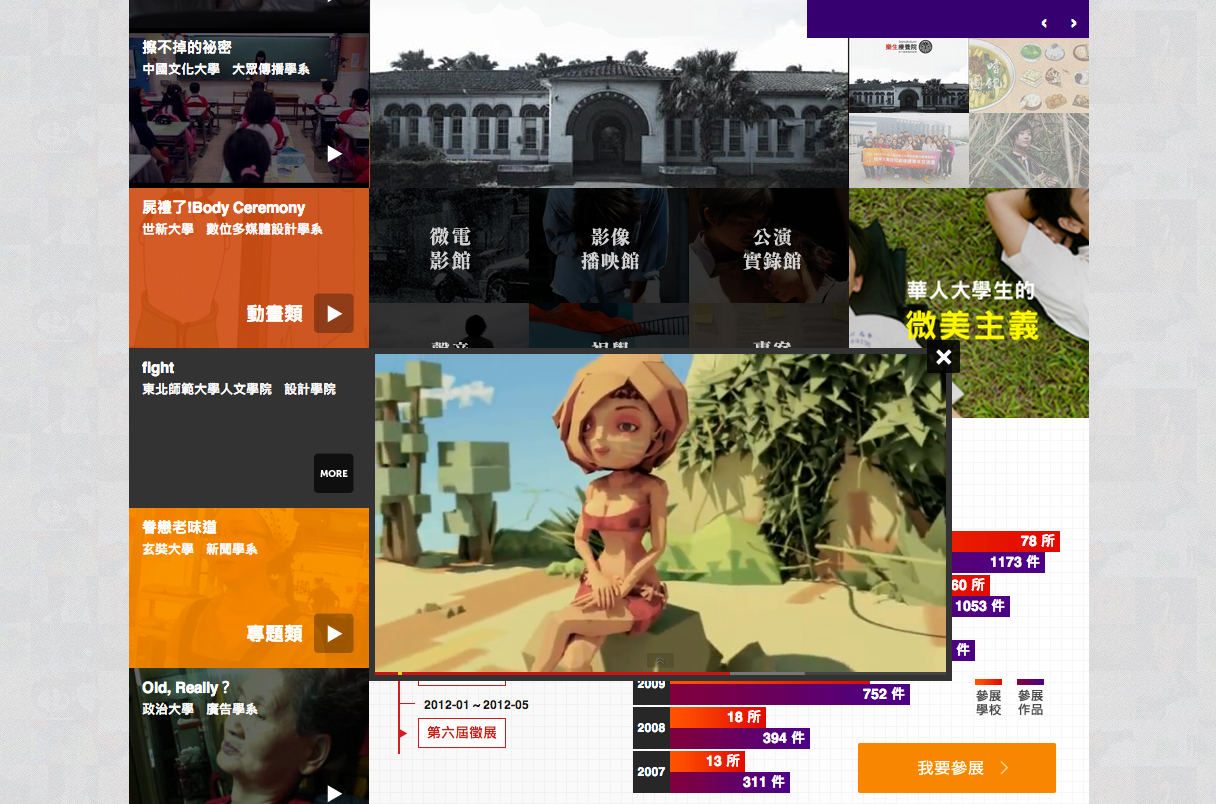
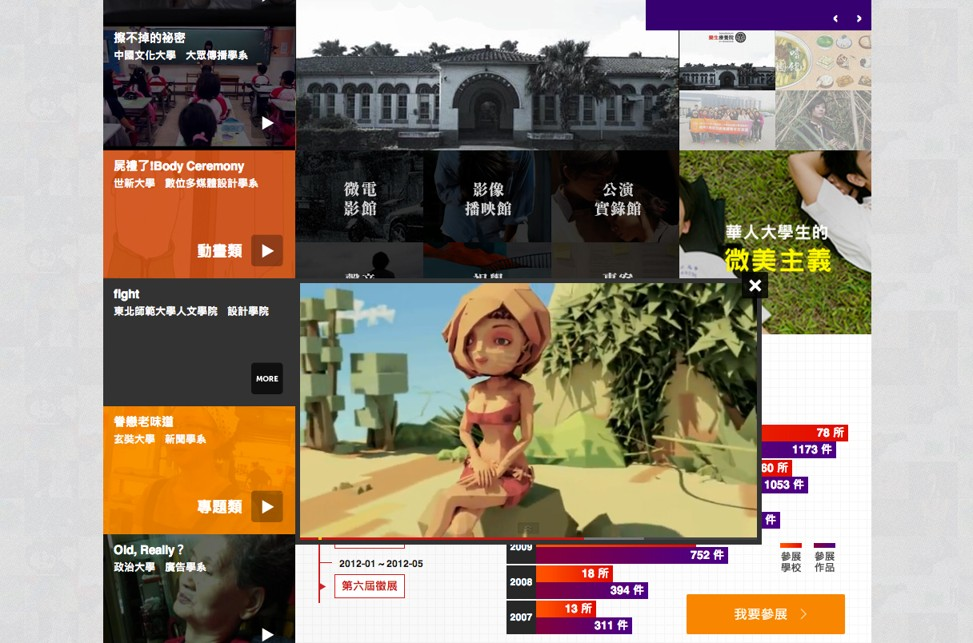
jquery anchor and lightbox plugin

diff --git a/js/lightbox-2.6.min.js b/js/lightbox-2.6.min.js
@@ -1,0 +1,1 @@
+(function(){var b,d,c;b=jQuery;c=(function(){function b(){this.fadeDuration=250;this.fitImagesInViewport=true;this.resizeDuration=250;this.showImageNumberLabel=true;this.wrapAround=false}b.prototype.albumLabel=function(b,c){return"Image "+b+" of "+c};return b})();d=(function(){function c(b){this.options=b;this.album=[];this.currentImageIndex=void 0;this.init()}c.prototype.init=function(){this.enable();return this.build()};c.prototype.enable=function(){var c=this;return b('body').on('click','a[rel^=lightbox], area[rel^=lightbox], a[data-lightbox], area[data-lightbox]',function(d){c.start(b(d.currentTarget));return false})};c.prototype.build=function(){var c=this;b("<div id='lightboxOverlay' class='lightboxOverlay'></div><div id='lightbox' class='lightbox'><div class='lb-outerContainer'><div class='lb-container'><img class='lb-image' src='' /><div class='lb-nav'><a class='lb-prev' href='' ></a><a class='lb-next' href='' ></a></div><div class='lb-loader'><a class='lb-cancel'></a></div></div></div><div class='lb-dataContainer'><div class='lb-data'><div class='lb-details'><span class='lb-caption'></span><span class='lb-number'></span></div><div class='lb-closeContainer'><a class='lb-close'></a></div></div></div></div>").appendTo(b('body'));this.$lightbox=b('#lightbox');this.$overlay=b('#lightboxOverlay');this.$outerContainer=this.$lightbox.find('.lb-outerContainer');this.$container=this.$lightbox.find('.lb-container');this.containerTopPadding=parseInt(this.$container.css('padding-top'),10);this.containerRightPadding=parseInt(this.$container.css('padding-right'),10);this.containerBottomPadding=parseInt(this.$container.css('padding-bottom'),10);this.containerLeftPadding=parseInt(this.$container.css('padding-left'),10);this.$overlay.hide().on('click',function(){c.end();return false});this.$lightbox.hide().on('click',function(d){if(b(d.target).attr('id')==='lightbox'){c.end()}return false});this.$outerContainer.on('click',function(d){if(b(d.target).attr('id')==='lightbox'){c.end()}return false});this.$lightbox.find('.lb-prev').on('click',function(){if(c.currentImageIndex===0){c.changeImage(c.album.length-1)}else{c.changeImage(c.currentImageIndex-1)}return false});this.$lightbox.find('.lb-next').on('click',function(){if(c.currentImageIndex===c.album.length-1){c.changeImage(0)}else{c.changeImage(c.currentImageIndex+1)}return false});return this.$lightbox.find('.lb-loader, .lb-close').on('click',function(){c.end();return false})};c.prototype.start=function(c){var f,e,j,d,g,n,o,k,l,m,p,h,i;b(window).on("resize",this.sizeOverlay);b('select, object, embed').css({visibility:"hidden"});this.$overlay.width(b(document).width()).height(b(document).height()).fadeIn(this.options.fadeDuration);this.album=[];g=0;j=c.attr('data-lightbox');if(j){h=b(c.prop("tagName")+'[data-lightbox="'+j+'"]');for(d=k=0,m=h.length;k<m;d=++k){e=h[d];this.album.push({link:b(e).attr('href'),title:b(e).attr('title')});if(b(e).attr('href')===c.attr('href')){g=d}}}else{if(c.attr('rel')==='lightbox'){this.album.push({link:c.attr('href'),title:c.attr('title')})}else{i=b(c.prop("tagName")+'[rel="'+c.attr('rel')+'"]');for(d=l=0,p=i.length;l<p;d=++l){e=i[d];this.album.push({link:b(e).attr('href'),title:b(e).attr('title')});if(b(e).attr('href')===c.attr('href')){g=d}}}}f=b(window);o=f.scrollTop()+f.height()/10;n=f.scrollLeft();this.$lightbox.css({top:o+'px',left:n+'px'}).fadeIn(this.options.fadeDuration);this.changeImage(g)};c.prototype.changeImage=function(f){var d,c,e=this;this.disableKeyboardNav();d=this.$lightbox.find('.lb-image');this.sizeOverlay();this.$overlay.fadeIn(this.options.fadeDuration);b('.lb-loader').fadeIn('100');this.$lightbox.find('.lb-image, .lb-nav, .lb-prev, .lb-next, .lb-dataContainer, .lb-numbers, .lb-caption').hide();this.$outerContainer.addClass('animating');c=new Image();c.onload=function(){var m,g,h,i,j,k,l;d.attr('src',e.album[f].link);m=b(c);d.width(c.width);d.height(c.height);if(e.options.fitImagesInViewport){l=b(window).width();k=b(window).height();j=l-e.containerLeftPadding-e.containerRightPadding-20;i=k-e.containerTopPadding-e.containerBottomPadding-110;if((c.width>j)||(c.height>i)){if((c.width/j)>(c.height/i)){h=j;g=parseInt(c.height/(c.width/h),10);d.width(h);d.height(g)}else{g=i;h=parseInt(c.width/(c.height/g),10);d.width(h);d.height(g)}}}return e.sizeContainer(d.width(),d.height())};c.src=this.album[f].link;this.currentImageIndex=f};c.prototype.sizeOverlay=function(){return b('#lightboxOverlay').width(b(document).width()).height(b(document).height())};c.prototype.sizeContainer=function(f,g){var b,d,e,h,c=this;h=this.$outerContainer.outerWidth();e=this.$outerContainer.outerHeight();d=f+this.containerLeftPadding+this.containerRightPadding;b=g+this.containerTopPadding+this.containerBottomPadding;this.$outerContainer.animate({width:d,height:b},this.options.resizeDuration,'swing');setTimeout(function(){c.$lightbox.find('.lb-dataContainer').width(d);c.$lightbox.find('.lb-prevLink').height(b);c.$lightbox.find('.lb-nextLink').height(b);c.showImage()},this.options.resizeDuration)};c.prototype.showImage=function(){this.$lightbox.find('.lb-loader').hide();this.$lightbox.find('.lb-image').fadeIn('100');this.updateNav();this.updateDetails();this.preloadNeighboringImages();this.enableKeyboardNav()};c.prototype.updateNav=function(){this.$lightbox.find('.lb-nav').show();if(this.album.length>1){if(this.options.wrapAround){this.$lightbox.find('.lb-prev, .lb-next').show()}else{if(this.currentImageIndex>0){this.$lightbox.find('.lb-prev').show()}if(this.currentImageIndex<this.album.length-1){this.$lightbox.find('.lb-next').show()}}}};c.prototype.updateDetails=function(){var b=this;if(typeof this.album[this.currentImageIndex].title!=='undefined'&&this.album[this.currentImageIndex].title!==""){this.$lightbox.find('.lb-caption').html(this.album[this.currentImageIndex].title).fadeIn('100')}if(this.album.length>1&&this.options.showImageNumberLabel){this.$lightbox.find('.lb-number').text(this.options.albumLabel(this.currentImageIndex+1,this.album.length)).fadeIn('100')}else{this.$lightbox.find('.lb-number').hide()}this.$outerContainer.removeClass('animating');this.$lightbox.find('.lb-dataContainer').fadeIn(this.resizeDuration,function(){return b.sizeOverlay()})};c.prototype.preloadNeighboringImages=function(){var c,b;if(this.album.length>this.currentImageIndex+1){c=new Image();c.src=this.album[this.currentImageIndex+1].link}if(this.currentImageIndex>0){b=new Image();b.src=this.album[this.currentImageIndex-1].link}};c.prototype.enableKeyboardNav=function(){b(document).on('keyup.keyboard',b.proxy(this.keyboardAction,this))};c.prototype.disableKeyboardNav=function(){b(document).off('.keyboard')};c.prototype.keyboardAction=function(g){var d,e,f,c,b;d=27;e=37;f=39;b=g.keyCode;c=String.fromCharCode(b).toLowerCase();if(b===d||c.match(/x|o|c/)){this.end()}else if(c==='p'||b===e){if(this.currentImageIndex!==0){this.changeImage(this.currentImageIndex-1)}}else if(c==='n'||b===f){if(this.currentImageIndex!==this.album.length-1){this.changeImage(this.currentImageIndex+1)}}};c.prototype.end=function(){this.disableKeyboardNav();b(window).off("resize",this.sizeOverlay);this.$lightbox.fadeOut(this.options.fadeDuration);this.$overlay.fadeOut(this.options.fadeDuration);return b('select, object, embed').css({visibility:"visible"})};return c})();b(function(){var e,b;b=new c();return e=new d(b)})}).call(this);

diff --git a/js/modernizr.custom.js b/js/modernizr.custom.js
@@ -1,0 +1,4 @@
+/* Modernizr 2.6.2 (Custom Build) | MIT & BSD
+ * Build: http://modernizr.com/download/#-shiv-cssclasses-teststyles-testprop-testallprops-hasevent-prefixes-domprefixes
+ */
+;window.Modernizr=function(a,b,c){function A(a){j.cssText=a}function B(a,b){return A(m.join(a+";")+(b||""))}function C(a,b){return typeof a===b}function D(a,b){return!!~(""+a).indexOf(b)}function E(a,b){for(var d in a){var e=a[d];if(!D(e,"-")&&j[e]!==c)return b=="pfx"?e:!0}return!1}function F(a,b,d){for(var e in a){var f=b[a[e]];if(f!==c)return d===!1?a[e]:C(f,"function")?f.bind(d||b):f}return!1}function G(a,b,c){var d=a.charAt(0).toUpperCase()+a.slice(1),e=(a+" "+o.join(d+" ")+d).split(" ");return C(b,"string")||C(b,"undefined")?E(e,b):(e=(a+" "+p.join(d+" ")+d).split(" "),F(e,b,c))}var d="2.6.2",e={},f=!0,g=b.documentElement,h="modernizr",i=b.createElement(h),j=i.style,k,l={}.toString,m=" -webkit- -moz- -o- -ms- ".split(" "),n="Webkit Moz O ms",o=n.split(" "),p=n.toLowerCase().split(" "),q={},r={},s={},t=[],u=t.slice,v,w=function(a,c,d,e){var f,i,j,k,l=b.createElement("div"),m=b.body,n=m||b.createElement("body");if(parseInt(d,10))while(d--)j=b.createElement("div"),j.id=e?e[d]:h+(d+1),l.appendChild(j);return f=["&#173;",'<style id="s',h,'">',a,"</style>"].join(""),l.id=h,(m?l:n).innerHTML+=f,n.appendChild(l),m||(n.style.background="",n.style.overflow="hidden",k=g.style.overflow,g.style.overflow="hidden",g.appendChild(n)),i=c(l,a),m?l.parentNode.removeChild(l):(n.parentNode.removeChild(n),g.style.overflow=k),!!i},x=function(){function d(d,e){e=e||b.createElement(a[d]||"div"),d="on"+d;var f=d in e;return f||(e.setAttribute||(e=b.createElement("div")),e.setAttribute&&e.removeAttribute&&(e.setAttribute(d,""),f=C(e[d],"function"),C(e[d],"undefined")||(e[d]=c),e.removeAttribute(d))),e=null,f}var a={select:"input",change:"input",submit:"form",reset:"form",error:"img",load:"img",abort:"img"};return d}(),y={}.hasOwnProperty,z;!C(y,"undefined")&&!C(y.call,"undefined")?z=function(a,b){return y.call(a,b)}:z=function(a,b){return b in a&&C(a.constructor.prototype[b],"undefined")},Function.prototype.bind||(Function.prototype.bind=function(b){var c=this;if(typeof c!="function")throw new TypeError;var d=u.call(arguments,1),e=function(){if(this instanceof e){var a=function(){};a.prototype=c.prototype;var f=new a,g=c.apply(f,d.concat(u.call(arguments)));return Object(g)===g?g:f}return c.apply(b,d.concat(u.call(arguments)))};return e});for(var H in q)z(q,H)&&(v=H.toLowerCase(),e[v]=q[H](),t.push((e[v]?"":"no-")+v));return e.addTest=function(a,b){if(typeof a=="object")for(var d in a)z(a,d)&&e.addTest(d,a[d]);else{a=a.toLowerCase();if(e[a]!==c)return e;b=typeof b=="function"?b():b,typeof f!="undefined"&&f&&(g.className+=" "+(b?"":"no-")+a),e[a]=b}return e},A(""),i=k=null,function(a,b){function k(a,b){var c=a.createElement("p"),d=a.getElementsByTagName("head")[0]||a.documentElement;return c.innerHTML="x<style>"+b+"</style>",d.insertBefore(c.lastChild,d.firstChild)}function l(){var a=r.elements;return typeof a=="string"?a.split(" "):a}function m(a){var b=i[a[g]];return b||(b={},h++,a[g]=h,i[h]=b),b}function n(a,c,f){c||(c=b);if(j)return c.createElement(a);f||(f=m(c));var g;return f.cache[a]?g=f.cache[a].cloneNode():e.test(a)?g=(f.cache[a]=f.createElem(a)).cloneNode():g=f.createElem(a),g.canHaveChildren&&!d.test(a)?f.frag.appendChild(g):g}function o(a,c){a||(a=b);if(j)return a.createDocumentFragment();c=c||m(a);var d=c.frag.cloneNode(),e=0,f=l(),g=f.length;for(;e<g;e++)d.createElement(f[e]);return d}function p(a,b){b.cache||(b.cache={},b.createElem=a.createElement,b.createFrag=a.createDocumentFragment,b.frag=b.createFrag()),a.createElement=function(c){return r.shivMethods?n(c,a,b):b.createElem(c)},a.createDocumentFragment=Function("h,f","return function(){var n=f.cloneNode(),c=n.createElement;h.shivMethods&&("+l().join().replace(/\w+/g,function(a){return b.createElem(a),b.frag.createElement(a),'c("'+a+'")'})+");return n}")(r,b.frag)}function q(a){a||(a=b);var c=m(a);return r.shivCSS&&!f&&!c.hasCSS&&(c.hasCSS=!!k(a,"article,aside,figcaption,figure,footer,header,hgroup,nav,section{display:block}mark{background:#FF0;color:#000}")),j||p(a,c),a}var c=a.html5||{},d=/^<|^(?:button|map|select|textarea|object|iframe|option|optgroup)$/i,e=/^(?:a|b|code|div|fieldset|h1|h2|h3|h4|h5|h6|i|label|li|ol|p|q|span|strong|style|table|tbody|td|th|tr|ul)$/i,f,g="_html5shiv",h=0,i={},j;(function(){try{var a=b.createElement("a");a.innerHTML="<xyz></xyz>",f="hidden"in a,j=a.childNodes.length==1||function(){b.createElement("a");var a=b.createDocumentFragment();return typeof a.cloneNode=="undefined"||typeof a.createDocumentFragment=="undefined"||typeof a.createElement=="undefined"}()}catch(c){f=!0,j=!0}})();var r={elements:c.elements||"abbr article aside audio bdi canvas data datalist details figcaption figure footer header hgroup mark meter nav output progress section summary time video",shivCSS:c.shivCSS!==!1,supportsUnknownElements:j,shivMethods:c.shivMethods!==!1,type:"default",shivDocument:q,createElement:n,createDocumentFragment:o};a.html5=r,q(b)}(this,b),e._version=d,e._prefixes=m,e._domPrefixes=p,e._cssomPrefixes=o,e.hasEvent=x,e.testProp=function(a){return E([a])},e.testAllProps=G,e.testStyles=w,g.className=g.className.replace(/(^|\s)no-js(\s|$)/,"$1$2")+(f?" js "+t.join(" "):""),e}(this,this.document);

diff --git a/css/lightbox.css b/css/lightbox.css
@@ -1,0 +1,202 @@
+/* line 7, ../sass/lightbox.sass */
+body:after {
+  content: url(../images/content/close.png) url(../images/content/loading.gif) url(../images/content/prev.png) url(../images/content/next.png);
+  display: none;
+}
+
+/* line 11, ../sass/lightbox.sass */
+.lightboxOverlay {
+  position: absolute;
+  top: 0;
+  left: 0;
+  z-index: 9999;
+  background-color: #222;
+  filter: progid:DXImageTransform.Microsoft.Alpha(Opacity=80);
+  opacity: 0.8;
+  display: none;
+}
+
+/* line 20, ../sass/lightbox.sass */
+.lightbox {
+  position: absolute;
+  left: 0;
+  width: 100%;
+  z-index: 10000;
+  text-align: center;
+  line-height: 0;
+  font-weight: normal;
+}
+/* line 28, ../sass/lightbox.sass */
+.lightbox .lb-image {
+  display: block;
+  height: auto;
+  -webkit-border-radius: 3px;
+  -moz-border-radius: 3px;
+  -ms-border-radius: 3px;
+  -o-border-radius: 3px;
+  border-radius: 3px;
+}
+/* line 32, ../sass/lightbox.sass */
+.lightbox a img {
+  border: none;
+}
+
+/* line 35, ../sass/lightbox.sass */
+.lb-outerContainer {
+  position: relative;
+  background-color: white;
+  *zoom: 1;
+  width: 250px;
+  height: 250px;
+  margin: 0 auto;
+  -webkit-border-radius: 4px;
+  -moz-border-radius: 4px;
+  -ms-border-radius: 4px;
+  -o-border-radius: 4px;
+  border-radius: 4px;
+}
+/* line 38, ../../../../.rvm/gems/ruby-1.9.3-p392/gems/compass-0.12.2/frameworks/compass/stylesheets/compass/utilities/general/_clearfix.scss */
+.lb-outerContainer:after {
+  content: "";
+  display: table;
+  clear: both;
+}
+
+/* line 44, ../sass/lightbox.sass */
+.lb-container {
+  padding: 0;
+}
+
+/* line 47, ../sass/lightbox.sass */
+.lb-loader {
+  position: absolute;
+  top: 43%;
+  left: 0%;
+  height: 25%;
+  width: 100%;
+  text-align: center;
+  line-height: 0;
+}
+
+/* line 56, ../sass/lightbox.sass */
+.lb-cancel {
+  display: block;
+  width: 32px;
+  height: 32px;
+  margin: 0 auto;
+  background: url(../images/content/loading.gif) no-repeat;
+}
+
+/* line 63, ../sass/lightbox.sass */
+.lb-nav {
+  position: absolute;
+  top: 0;
+  left: 0;
+  height: 100%;
+  width: 100%;
+  z-index: 10;
+}
+
+/* line 71, ../sass/lightbox.sass */
+.lb-container > .nav {
+  left: 0;
+}
+
+/* line 74, ../sass/lightbox.sass */
+.lb-nav a {
+  outline: none;
+}
+
+/* line 77, ../sass/lightbox.sass */
+.lb-prev, .lb-next {
+  width: 49%;
+  height: 100%;
+  cursor: pointer;
+  /* Trick IE into showing hover */
+  display: block;
+}
+
+/* line 84, ../sass/lightbox.sass */
+.lb-prev {
+  left: 0;
+  float: left;
+}
+/* line 87, ../sass/lightbox.sass */
+.lb-prev:hover {
+  background: url(../images/content/prev.png) left 48% no-repeat;
+}
+
+/* line 90, ../sass/lightbox.sass */
+.lb-next {
+  right: 0;
+  float: right;
+}
+/* line 93, ../sass/lightbox.sass */
+.lb-next:hover {
+  background: url(../images/content/next.png) right 48% no-repeat;
+}
+
+/* line 96, ../sass/lightbox.sass */
+.lb-dataContainer {
+  margin: 0 auto;
+  padding-top: 5px;
+  *zoom: 1;
+  width: 100%;
+  -moz-border-radius-bottomleft: 4px;
+  -webkit-border-bottom-left-radius: 4px;
+  border-bottom-left-radius: 4px;
+  -moz-border-radius-bottomright: 4px;
+  -webkit-border-bottom-right-radius: 4px;
+  border-bottom-right-radius: 4px;
+}
+/* line 38, ../../../../.rvm/gems/ruby-1.9.3-p392/gems/compass-0.12.2/frameworks/compass/stylesheets/compass/utilities/general/_clearfix.scss */
+.lb-dataContainer:after {
+  content: "";
+  display: table;
+  clear: both;
+}
+
+/* line 103, ../sass/lightbox.sass */
+.lb-data {
+  padding: 0 4px;
+  color: #fff;
+}
+/* line 106, ../sass/lightbox.sass */
+.lb-data .lb-details {
+  width: 85%;
+  float: left;
+  text-align: left;
+  line-height: 1.1em;
+}
+/* line 111, ../sass/lightbox.sass */
+.lb-data .lb-caption {
+  font-size: 13px;
+  font-weight: bold;
+  line-height: 1.3em;
+}
+/* line 115, ../sass/lightbox.sass */
+.lb-data .lb-number {
+  display: block;
+  clear: left;
+  padding-bottom: 1em;
+  font-size: 12px;
+  color: #ddd;
+}
+/* line 121, ../sass/lightbox.sass */
+.lb-data .lb-close {
+  display: block;
+  float: right;
+  width: 30px;
+  height: 30px;
+  background: url(../images/content/close.png) top right no-repeat;
+  text-align: right;
+  outline: none;
+  filter: progid:DXImageTransform.Microsoft.Alpha(Opacity=70);
+  opacity: 0.7;
+}
+/* line 130, ../sass/lightbox.sass */
+.lb-data .lb-close:hover {
+  cursor: pointer;
+  filter: progid:DXImageTransform.Microsoft.Alpha(Opacity=100);
+  opacity: 1;
+}

diff --git a/index.html b/index.html
@@ -28,6 +28,7 @@
 	<link rel="stylesheet" href="css/base.css">
 	<link rel="stylesheet" href="css/index.css">
 	<link href='http://fonts.googleapis.com/css?family=Roboto:400,100,300,500,100italic,300italic,400italic,500italic' rel='stylesheet' type='text/css'>
+	<link rel="stylesheet" href="css/lightbox.css">
 	
 </head>
 
@@ -48,8 +49,8 @@
 			<!--start btn-->
 			<div class="main_btn absolute">
 				<div class="clearfix inner">
-					<a class="btn fltlft" href="#" style="margin-right:35px;">About</a>
-					<a class="btn fltlft" href="#">Portfolio</a>
+					<a class="btn fltlft" href="#about" style="margin-right:35px;">About</a>
+					<a class="btn fltlft" href="#portfolio">Portfolio</a>
 				</div>
 			</div>
 			<!--end btn-->
@@ -110,8 +111,10 @@
 				<!--start a_portfolio-->
 				<div class="fltlft item">
 					<div class="inner bw relative">
-						<a class="hover absolute" href="#"><div class="color"></div><div class="magnifier absolute"></div></a>
+						<a class="hover absolute" href="images/content/portfolio/dge/1.jpg" data-lightbox="dge-set" title="設計、網頁製作"><div class="color"></div><div class="magnifier absolute"></div></a>
 						<img src="images/content/portfolio/dge/1.jpg" alt="dge" />
+						<a href="images/content/portfolio/dge/2.jpg" class="absolute" style="display:none;" data-lightbox="dge-set" title="設計、網頁製作"></a>
+						<a href="images/content/portfolio/dge/3.jpg" class="absolute" style="display:none;" data-lightbox="dge-set" title="設計、網頁製作"></a>
 					</div>
 					<h2 class="name">DGE 華人大學院校數位聯合畢業展</h2>
 				</div>
@@ -120,8 +123,11 @@
 				<!--start a_portfolio-->
 				<div class="fltlft item">
 					<div class="inner bw relative">
-						<a class="hover absolute" href="#"><div class="color"></div><div class="magnifier absolute"></div></a>
+						<a class="hover absolute" href="images/content/portfolio/icd/1.jpg" data-lightbox="icd-set" title="部分設計、網頁製作"><div class="color"></div><div class="magnifier absolute"></div></a>
 						<img src="images/content/portfolio/icd/1.jpg" alt="icd" />
+						<a href="images/content/portfolio/icd/2.jpg" class="absolute" style="display:none;" data-lightbox="icd-set" title="部分設計、網頁製作"></a>
+						<a href="images/content/portfolio/icd/3.jpg" class="absolute" style="display:none;" data-lightbox="icd-set" title="部分設計、網頁製作"></a>
+						<a href="images/content/portfolio/icd/4.jpg" class="absolute" style="display:none;" data-lightbox="icd-set" title="部分設計、網頁製作"></a>
 					</div>
 					<h2 class="name">iCD 銀河愛音樂</h2>
 				</div>
@@ -155,8 +161,11 @@
 ================================================== -->
 <!-- Get Google CDN's jQuery and jQuery UI with fallback to local -->
 <script src="http://ajax.googleapis.com/ajax/libs/jquery/1.8/jquery.min.js"></script>
+<script src="http://cdnjs.cloudflare.com/ajax/libs/jquery-easing/1.3/jquery.easing.min.js"></script>
 <!--<script src="http://ajax.googleapis.com/ajax/libs/jqueryui/1/jquery-ui.js"></script>-->
 <script src="js/jquery.BlackAndWhite.js"></script>
+<script src="js/jquery.plusanchor.js"></script>
+<script src="js/lightbox-2.6.min.js"></script>
 <script src="js/common.js"></script>
 
 </body>

diff --git a/js/jquery.plusanchor.js b/js/jquery.plusanchor.js
@@ -1,0 +1,82 @@
+/*
+ * jQuery PlusAnchor 1.0.7.3
+ * By Jamy Golden
+ * http://css-plus.com
+ *
+ * Copyright 2011, Jamy Golden
+ * Free to use under the MIT license.
+ * http://www.opensource.org/licenses/mit-license.php
+ */
+(function($){
+    $.plusAnchor = function(el, options){
+        // To avoid scope issues, use 'base' instead of 'this'
+        // to reference this class from internal events and functions.
+        var base = this;
+        // Access to jQuery and DOM versions of element
+        base.el                 = el;
+        base.$el                = $(el);
+        base.$el.data('plusAnchor', base); // Add a reverse reference to the DOM object
+        base.scrollEl           = 'body, html';
+        base.initHash           = window.location.hash;
+        base.offsetTop          = function() {
+
+            return $('html').offset().top;
+
+        }; // base.offsetTop()
+        base.init = function(){
+
+            base.options = $.extend({}, $.plusAnchor.defaults, options);
+
+            // onInit callback
+            if ( base.options.onInit && typeof( base.options.onInit ) == 'function' ) base.options.onInit( base );
+            // End onInit callback
+
+            base.$el.find('a[href^="#"]').click(function( e ) {
+                
+                e.preventDefault();
+                
+                var $this = $(this),
+                    href = $this.attr('href'),
+                    $name = $('a[name="' + $(this).attr('href').substring(1) + '"]');
+                    
+                if ( $(href).length ){
+
+                    // onSlide callback
+                    if ( base.options.onSlide && typeof( base.options.onSlide ) == 'function' ) base.options.onSlide( base );
+                    // End onSlide callback
+                    $(base.scrollEl).animate({
+
+                        scrollTop: $(href).offset().top + base.options.offsetTop
+
+                    }, base.options.speed, base.options.easing);
+
+                } else if ( $name.length ){
+
+                    // onSlide callback
+                    if ( base.options.onSlide && typeof( base.options.onSlide ) == 'function' ) base.options.onSlide( base );
+                    // End onSlide callback
+                    $(base.scrollEl).animate({
+
+                        scrollTop: $name.offset().top
+
+                    }, base.options.speed, base.options.easing);
+
+                }
+            });
+        }; // base.init()
+        // Run initializer
+        base.init();
+    };
+    $.plusAnchor.defaults ={
+        easing: 'swing',  // Anything other than "swing" or "linear" requires the easing.js plugin
+        offsetTop: 0,
+        speed: 1000,     // The speed, in miliseconds, it takes to complete a slide
+        onInit: null,    // Callback function on plugin initialize
+        onSlide: null    // Callback function that runs just before the page starts animating
+    };
+    $.fn.plusAnchor = function(options){
+        return this.each(function(){
+            (new $.plusAnchor(this, options));
+        });
+    };
+})(jQuery);

diff --git a/js/common.js b/js/common.js
@@ -37,5 +37,31 @@ $(document).ready(function(){
 						})
 					
 					$('.portfolio .item .inner').hover(function(){$(this).find('.hover .color').stop().fadeTo(150,0);$(this).find('.hover .magnifier').stop().fadeTo(150,0);},function(){$(this).find('.hover .color').stop().fadeTo(60,0.7);$(this).find('.hover .magnifier').stop().fadeTo(60,1);});
+					
+					
+					// plus_anchor
+					$('body').plusAnchor({
+						easing: 'easeInOutExpo',
+						offsetTop:0,
+						speed: 600,
+						onInit: function( base ) {
+
+							if ( base.initHash != '' && $(base.initHash).length > 0 ) {
+								window.location.hash = 'hash_' + base.initHash.substring(1);
+								window.scrollTo(0, 0);
+
+								$(window).load( function() {
+
+									timer = setTimeout(function() {
+										$(base.scrollEl).animate({
+											scrollTop: $( base.initHash ).offset().top
+										}, base.options.speed, base.options.easing);
+									}, 2000); // setTimeout
+
+								}); // window.load
+							}; // if window.location.hash
+
+						} // onInit
+					});
 						   
 });
